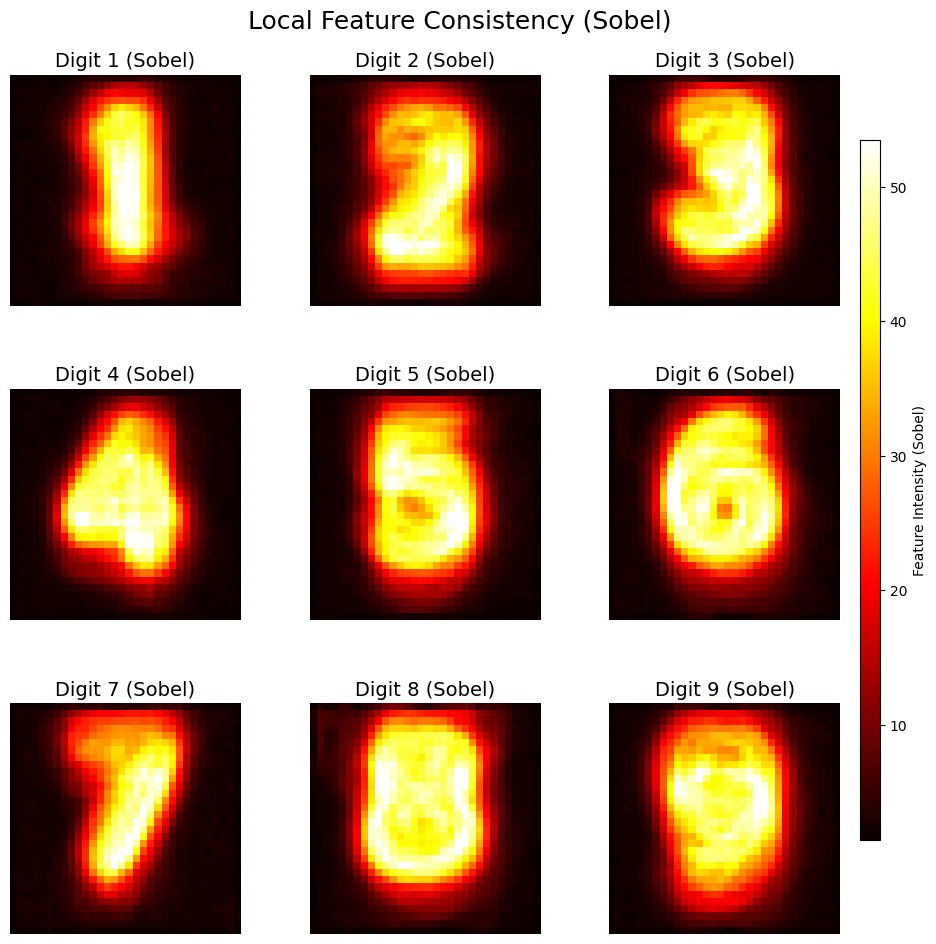
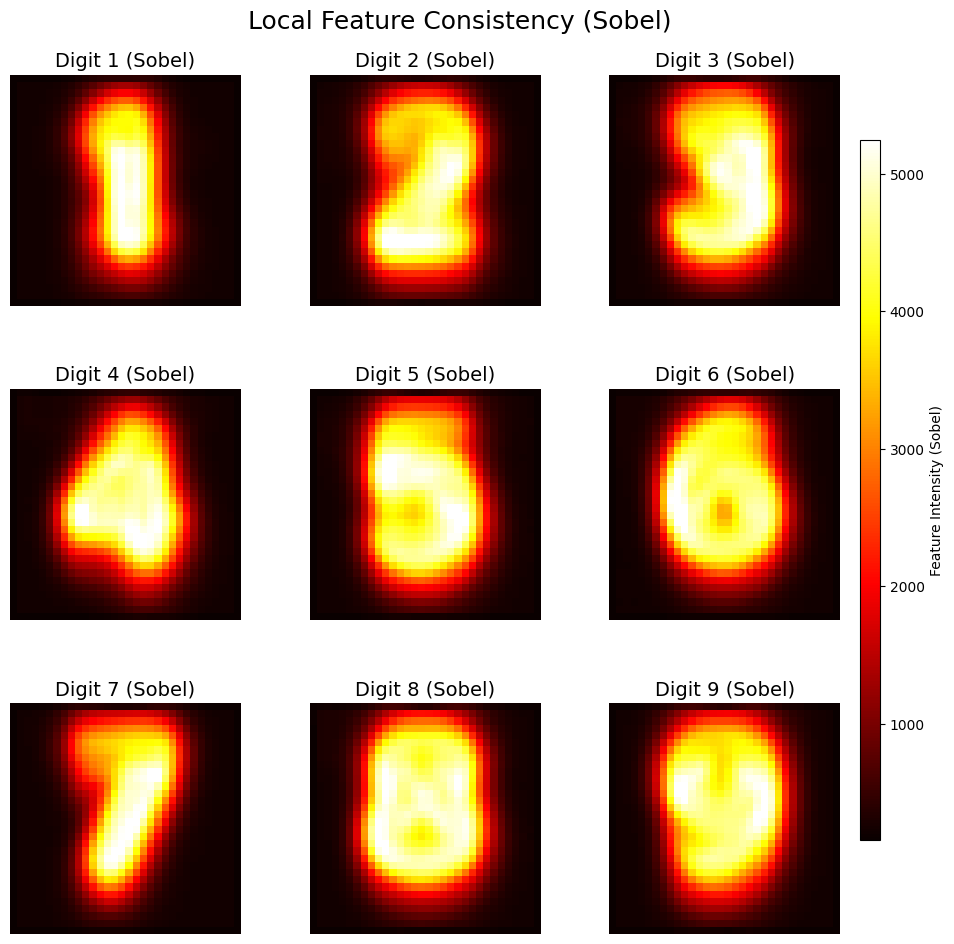
Add dataset evals

diff --git a/dev_tools/data_utils/dataset_evaluation.py b/dev_tools/data_utils/dataset_evaluation.py
@@ -1502,7 +1502,7 @@ class DigitDatasetEvaluator:
         diversity_data = self.step_8_estimate_dataset_diversity()
         partial_paths = self.step_9_detect_partial_digits()
         _, all_duplicates_by_digit = self.step_10_detect_duplicate_images()
-        sobel_data, orb_data = self.step_11_local_feature_consistency(samples_per_digit=100)
+        sobel_data, orb_data = self.step_11_local_feature_consistency(samples_per_digit=10000)
         self.step_12_digit_heatmap_grid()
 
         # Table/report generation
@@ -1522,9 +1522,7 @@ class DigitDatasetEvaluator:
 
 if __name__ == "__main__":
     evaluator = DigitDatasetEvaluator(dataset_path="digit_dataset")
-    evaluator.run_full_evaluation()
-    # diversity_data = evaluator.step_8_estimate_dataset_diversity()
-    # evaluator.generate_table_4_dataset_diversity(diversity_data)
-    # class_stats = evaluator.step_1_class_distribution()
-    # image_size = evaluator.step_2_check_image_dimensions()
-    # evaluator.generate_table_1_dataset_summary(class_stats, image_size)
+    # evaluator.run_full_evaluation()
+    sobel_data, orb_data = evaluator.step_11_local_feature_consistency(samples_per_digit=10000)
+    evaluator.generate_table_5_feature_consistency(sobel_data, orb_data)
+
